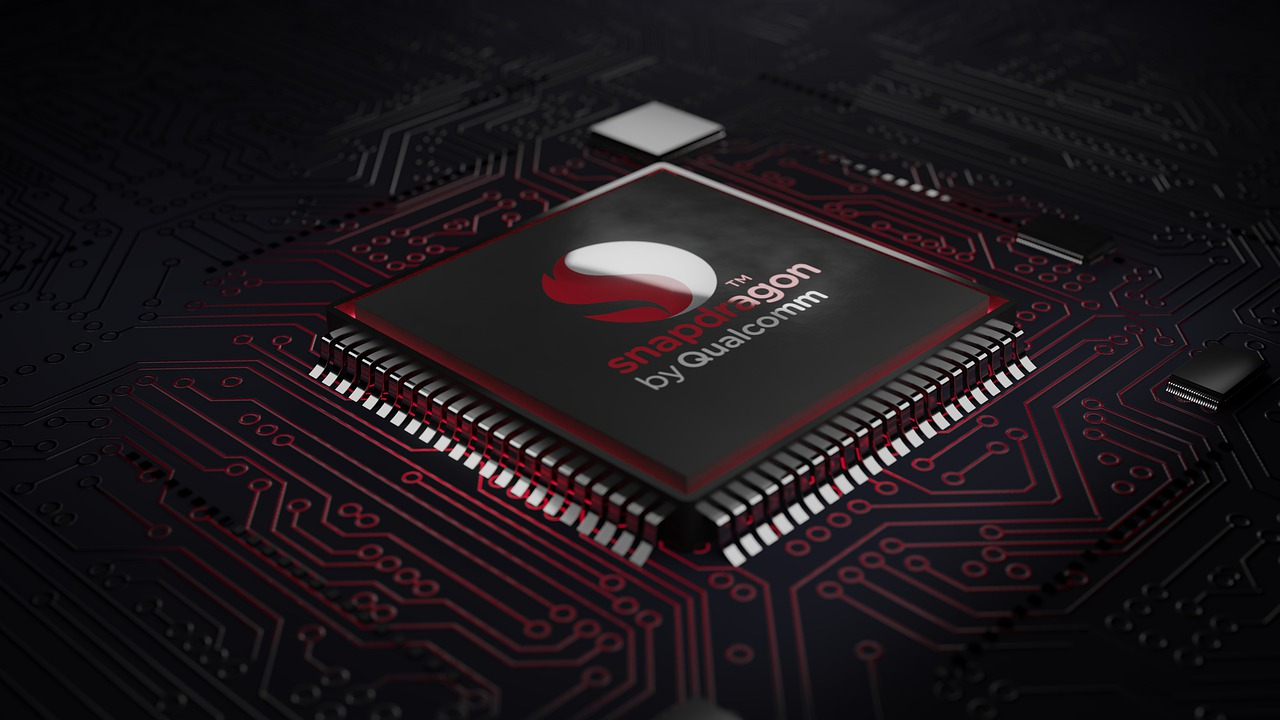
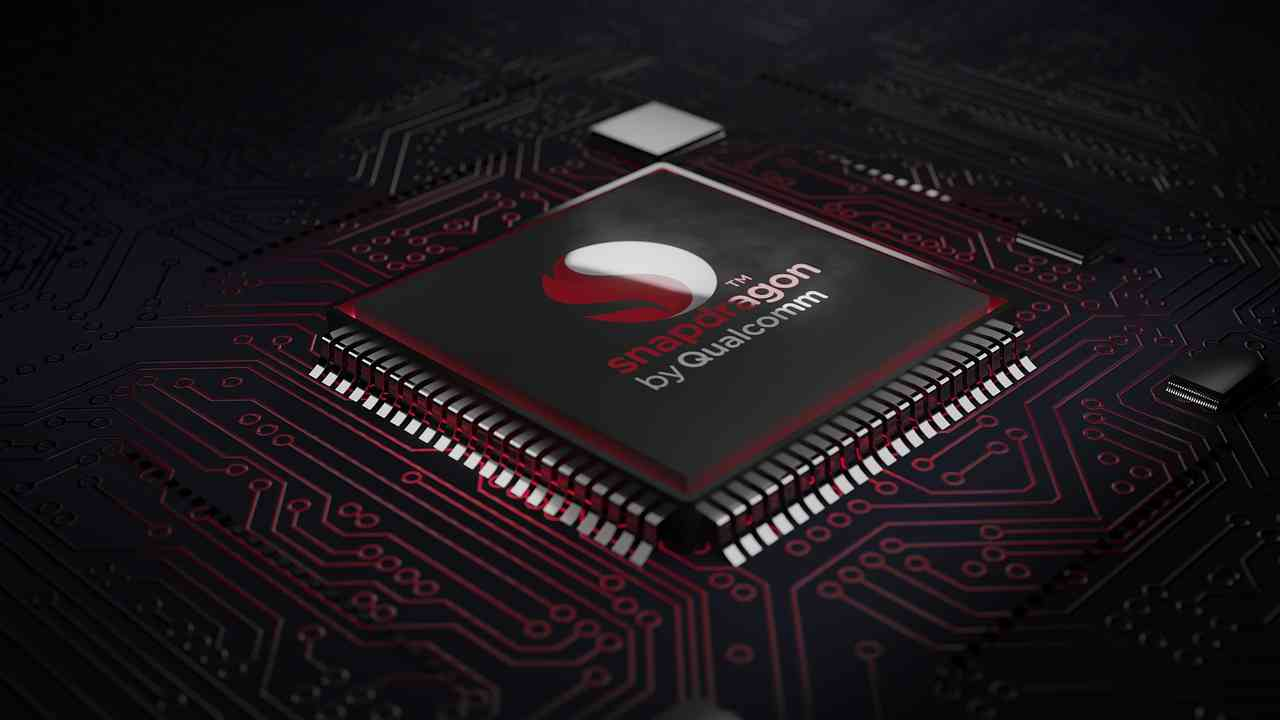
Se ha escrito el documento de Modelos y Protocolos de red. Tambiéen se han comprimido las imagenes para ahorrar almacenamiento.

diff --git a/2 Modelos y Protocolos de red.md b/2 Modelos y Protocolos de red.md
@@ -1,0 +1,74 @@
+# Modelos y protocolos de red
+
+[TOC]
+
+## Qué es un protocolo
+
+En informática y telecomunicaciones, hablamos de un protocolo para referirnos a un **sistema de normas** que regulan la comunicación entre dos o más sistemas que se transmiten información a través de diversos medios físicos.
+
+De los protocolos depende, entonces, **hacer que dos o más sistemas informáticos puedan comunicarse de manera eficaz y ordenada**, es decir, que hablen un mismo idioma. Estos lenguajes se implementan mediante hardware o software, o combinaciones de ambos, y le brinda a cada participante en la comunicación una identidad y un método específico de procesamiento de la información.
+
+## Modelo TCP/IP y OSI
+
+|   Tanto el Modelo OSI como el Modelo TCP/IP separan las funciones que realiza un computador para enviar y recibir datos. Sin embargo presentan numerosas diferencias. La más notoria es que el primero cuenta con 7 capas y el segundo con 4. Lo normal es que cuando deseemos implementar una red o descubrir los problemas que esta presenta nos refiramos al Modelo OSI. Sin embargo, el modelo OSI es puramente conceptual y el TCP/IP representa de mejor forma la lógica real de las conexiones en internet.   | <img src="./2 assets/2 Modelo OSI vs TCP_IP.jpg" style="zoom: 500%;" /> |
+| ---- | ------------------------------------------------------------ |
+
+## La familia de Protocolos TCP/IP
+
+Como se dijo anteriormente TCP/IP es un modelo que divide las funciones que desempeña un computador en la comunicación. Pero también es una familia de protocolos de comunicación de los cuáles los más importantes son TCP (Transmission Control Protocol) e IP (Internet Protocol). Esta familia de protocolos es el estándar de comunicación entre dispositivos mediante internet. Por este motivo, todos los fabricantes de computadores cumplen las especificaciones de hardware necesarias para que el dispositivo pueda conectarse a la red. Lo mismo hacen los desarrolladores de sistemas operativos que instalan por defecto el software necesario para establecer esta conexión.
+
+Cada protocolo cae en una capa en particular y se preocupa de desempeñarse en una función determinada. Esto se puede observar en la imagen a continuación.
+
+![](./2 assets/2 Familia de Protocolos TCP_IP.jpg)
+
+### Protocolos de la capa de acceso de red
+
+No los considero tan relevantes para este curso.
+
+### Protocolos de red
+
+Los protocolos de red están especialmente diseñados para la comunicación a través de redes de computadoras, que operan fragmentando la información enviada en pequeñas partes, en lugar de todo de golpe. Las partes son fáciles y rápidas de transmitir, pero deben almacenarse en el orden correcto para conservar la información intacta.
+
+Algunos de los protocolos de red más importantes en la actualidad son:
+
+- IP (Internet Protocol)
+- ARP (Address Resolution Protocol)
+- ICMP (Internet Control Message Protocol)
+- OSPF (Open Shortes Path First)
+- RIPv2 (Routing Information Protocol version 2)
+
+#### IP: IPv4 e IPv6
+
+De todos los protocolos de la capa de red, el más importante es **el protocolo IP, pues permite que los equipos se identifiquen** dentro de la red otorgándoles una **dirección ip**. Este se divide en dos estándares IPv4 e IPv6 que se diferencian por el número de host que permiten identificar.
+
+IPv4 es una versión del protocolo que considera un identificador de 32 bit. Esto quiere decir que es un número compuesto por 32 número binarios. Lo que implica que este considera un total de 2^32 direcciones IP (4.2 billones de direcciones IP). IPv6 es una versión del protocolo que considera un identificador de 64 bit. El total de direcciones que puede otorgar a los equipos es de 2^64 direcciones IP (340,282,366,920,938,463,463,374,607,431.7 billones de direcciones IP).
+
+Esta gran diferencia radica en el hecho de que cuando se creó el protocolo IPv4 existían muy pocas computadoras en el mundo y se pensó que nunca alcanzaríamos a tener más de 4.29 billones de dispositivos conectados a internet. Pero el tiempo ha dicho lo contrario. Hoy en día existen muchos más dispositivos conectados a la red. Es por esto que se concibió IPv6, con un identificador más largo. A día de hoy se sigue usando el protocolo IPv4, y se usan "trucos" para que no se acaben las direcciones IP. Sin embargo, podemos esperar que en un futuro próximo se abandone el uso del protocolo y se reemplace por su hermano menor IPv6.
+
+
+### Protocolos de Transmisión (transporte) de los paquetes de datos
+
+Los protocolos de transmisión o de transporte de datos se encargan de proporcionar una conexión de datos fiable entre dos dispositivos. Divide los datos en paquetes, hace acuso de recibo de los paquetes que recibe del otro dispositivo y se asegura de que el otro dispositivo haga acuse de recibo de los paquetes que recibe a su vez.
+
+
+## Bibliografía
+
+[Protocolo Informático - Concepto, propiedades y ejemplos](https://concepto.de/protocolo-informatico/)
+
+https://www.ionos.es/digitalguide/servidores/know-how/los-protocolos-de-red-en-la-transmision-de-datos/
+
+[¿Cuál es la diferencia entre modelo OSI y modelo TCP/IP? | FS comunidad](https://community.fs.com/es/blog/tcpip-vs-osi-whats-the-difference-between-the-two-models.html)
+
+[Familia de protocolos TCP/IP - EcuRed](https://www.ecured.cu/Familia_de_protocolos_TCP/IP)
+
+[Protocolos TCP/IP - Documentación de IBM](https://www.ibm.com/docs/es/aix/7.2?topic=protocol-tcpip-protocols)
+
+[Protocolos de comunicación de redes (kionetworks.com)](https://www.kionetworks.com/blog/data-center/protocolos-de-comunicación-de-redes)
+
+[¿Qué es un protocolo de red? Definición y tipos de protocolos - IONOS](https://www.ionos.es/digitalguide/servidores/know-how/los-protocolos-de-red-en-la-transmision-de-datos/)
+
+[¿Qué es TCP/IP? | Cómo funcionan el modelo y los protocolos | Avast](https://www.avast.com/es-es/c-what-is-tcp-ip)
+
+[IPv4 vs. IPv6 Benefits - What is it? | ThousandEyes](https://www.thousandeyes.com/learning/techtorials/ipv4-vs-ipv6#:~:text=IPv4 stands for Internet Protocol,IP address such as 99.48.)
+
+[Características de IPv4 e IPv6 (rootear.com)](https://rootear.com/web/diferencias-entre-las-versiones-del-protocolo-tcpip)

diff --git a/0 Historia de Internet.md b/0 Historia de Internet.md
@@ -33,4 +33,4 @@ Como ya hemos hablado, la invención del computador fue un paso importantísimo 
 
 Con el tiempo, el coste de construir un computador fue disminuyendo y distintas compañías comenzaron a fabricar sus propios computadores en masa. Las primeras redes de computadores, más pequeñas que internet, eran difíciles de hacer, porque cada fabricante hacía las cosas a su modo y por ende, conectar un computador de IBM con uno de Apple era una tarea titánica y que a menuo no merecía la pena.
 
-Para nuestro beneficio esto cambió con el tiempo. Se hicieron grandes esfuerzos para crear estándares que todos los fabricantes deben seguir para que los aparatos electrónicos puedan comunicarse a través de esta gran red de computadores que es internet. Un ejemplo de estos estándares es la norma EIA/TIA 568A que especifica los requerimientos mínimos para el cableado de establecimientos comerciales de oficinas. Al seguir estas normativas podemos saber que la red que estamos montando cumplirá con ciertos requerimientos mínimos y así podemos brindar un servicio estable de conexión a internet.
+Para nuestro beneficio esto cambió con el tiempo. Se hicieron grandes esfuerzos para crear estándares que todos los fabricantes deben seguir para que los aparatos electrónicos puedan comunicarse a través de esta gran red de computadores que es internet. Un ejemplo de estos estándares es la norma EIA/TIA 568A que especifica los requerimientos mínimos para el cableado de establecimientos comerciales de oficinas. Otro ejemplo es el protocolo de intercambio de información TCP/IP, que se divide en IPv4 e IPv6. Al seguir estas normativas podemos saber que la red que estamos montando cumplirá con ciertos requerimientos mínimos y así podemos brindar un servicio estable de conexión a internet.

diff --git a/3 Direccionamiento IP.md b/3 Direccionamiento IP.md
@@ -1,0 +1,2 @@
+[▷ Qué es el direccionamiento IP y cómo funciona [bien clarito\] (profesionalreview.com)](https://www.profesionalreview.com/2019/01/12/direccionamiento-ip/)
+
